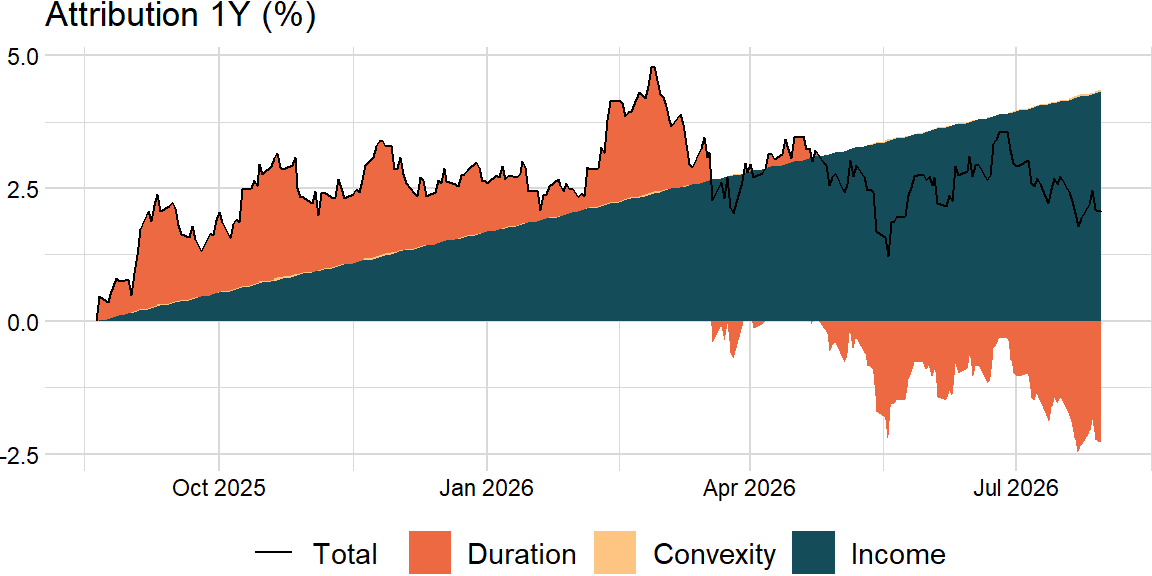
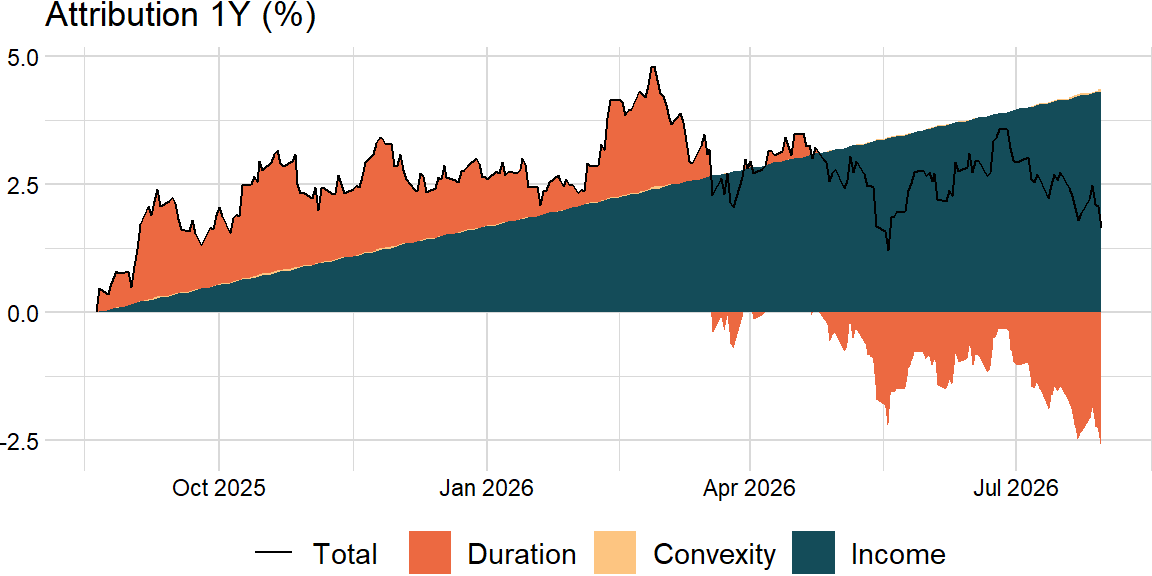
Version: 1.0.0

diff --git a/docs/index.html b/docs/index.html
@@ -197,7 +197,69 @@ window.Quarto = {
 
 <div class="quarto-listing quarto-listing-container-grid" id="listing-listing">
 <div class="list grid quarto-listing-cols-3">
-<div class="g-col-1" data-index="0" data-categories="YW5hbHlzaXMlMkNmaW5hbmNlJTJDcg==" data-listing-date-sort="1785517666000" data-listing-file-modified-sort="1785517666000" data-listing-date-modified-sort="NaN" data-listing-reading-time-sort="9" data-listing-word-count-sort="1697">
+<div class="g-col-1" data-index="0" data-categories="YW5hbHlzaXMlMkNmaW5hbmNlJTJDcHl0aG9u" data-listing-date-sort="1785785860000" data-listing-file-modified-sort="1785785860000" data-listing-date-modified-sort="NaN" data-listing-reading-time-sort="15" data-listing-word-count-sort="2971">
+<a href="./posts/securities-py/index.html" class="quarto-grid-link">
+</a><div class="quarto-grid-item card h-100 card-left"><a href="./posts/securities-py/index.html" class="quarto-grid-link">
+<p class="card-img-top"><img src="posts\securities-py\index_files\figure-html\unnamed-chunk-19-1.png" style="height: 0px;"  class="thumbnail-image card-img"/></p>
+</a><div class="card-body post-contents"><a href="./posts/securities-py/index.html" class="quarto-grid-link">
+<h5 class="no-anchor card-title listing-title">
+Securities
+</h5>
+<div class="listing-categories">
+
+<div class="listing-category" onclick="window.quartoListingCategory('YW5hbHlzaXM='); return false;">analysis</div>
+
+<div class="listing-category" onclick="window.quartoListingCategory('ZmluYW5jZQ=='); return false;">finance</div>
+
+<div class="listing-category" onclick="window.quartoListingCategory('cHl0aG9u'); return false;">python</div>
+
+</div>
+<div class="card-text listing-description delink">
+For a given spot price <span class="math inline">\(S\)</span>, strike price <span class="math inline">\(K\)</span>, risk-free rate <span class="math inline">\(r\)</span>, annual dividend yield <span class="math inline">\(q\)</span>, time-to-maturity <span class="math inline">\(\tau = T - t\)</span>, and volatility <span class="math inline">\(\sigma\)</span>:
+</div>
+</a><div class="card-attribution card-text-small justify"><a href="./posts/securities-py/index.html" class="quarto-grid-link">
+</a><div class="listing-author"><a href="./posts/securities-py/index.html" class="quarto-grid-link">
+</a><a href="mailto:jason.j.foster@gmail.com">Jason Foster</a>
+</div>
+<div class="listing-date">
+Aug 3, 2026
+</div>
+</div>
+</div>
+</div>
+</div>
+<div class="g-col-1" data-index="1" data-categories="YW5hbHlzaXMlMkNmaW5hbmNlJTJDcg==" data-listing-date-sort="1785785850000" data-listing-file-modified-sort="1785785850000" data-listing-date-modified-sort="NaN" data-listing-reading-time-sort="17" data-listing-word-count-sort="3244">
+<a href="./posts/securities-r/index.html" class="quarto-grid-link">
+</a><div class="quarto-grid-item card h-100 card-left"><a href="./posts/securities-r/index.html" class="quarto-grid-link">
+<p class="card-img-top"><img src="posts\securities-r\index_files\figure-html\unnamed-chunk-17-1.png" style="height: 0px;"  class="thumbnail-image card-img"/></p>
+</a><div class="card-body post-contents"><a href="./posts/securities-r/index.html" class="quarto-grid-link">
+<h5 class="no-anchor card-title listing-title">
+Securities
+</h5>
+<div class="listing-categories">
+
+<div class="listing-category" onclick="window.quartoListingCategory('YW5hbHlzaXM='); return false;">analysis</div>
+
+<div class="listing-category" onclick="window.quartoListingCategory('ZmluYW5jZQ=='); return false;">finance</div>
+
+<div class="listing-category" onclick="window.quartoListingCategory('cg=='); return false;">r</div>
+
+</div>
+<div class="card-text listing-description delink">
+For a given spot price <span class="math inline">\(S\)</span>, strike price <span class="math inline">\(K\)</span>, risk-free rate <span class="math inline">\(r\)</span>, annual dividend yield <span class="math inline">\(q\)</span>, time-to-maturity <span class="math inline">\(\tau = T - t\)</span>, and volatility <span class="math inline">\(\sigma\)</span>:
+</div>
+</a><div class="card-attribution card-text-small justify"><a href="./posts/securities-r/index.html" class="quarto-grid-link">
+</a><div class="listing-author"><a href="./posts/securities-r/index.html" class="quarto-grid-link">
+</a><a href="mailto:jason.j.foster@gmail.com">Jason Foster</a>
+</div>
+<div class="listing-date">
+Aug 3, 2026
+</div>
+</div>
+</div>
+</div>
+</div>
+<div class="g-col-1" data-index="2" data-categories="YW5hbHlzaXMlMkNmaW5hbmNlJTJDcg==" data-listing-date-sort="1785517666000" data-listing-file-modified-sort="1785517666000" data-listing-date-modified-sort="NaN" data-listing-reading-time-sort="9" data-listing-word-count-sort="1697">
 <a href="./posts/optim-r/index.html" class="quarto-grid-link">
 </a><div class="quarto-grid-item card h-100 card-left"><a href="./posts/optim-r/index.html" class="quarto-grid-link">
 <p class="card-img-top"><img src="posts\optim-r\index_files\figure-html\unnamed-chunk-7-1.png" style="height: 0px;"  class="thumbnail-image card-img"/></p>
@@ -228,7 +290,7 @@ Jul 31, 2026
 </div>
 </div>
 </div>
-<div class="g-col-1" data-index="1" data-categories="YW5hbHlzaXMlMkNmaW5hbmNlJTJDcHl0aG9u" data-listing-date-sort="1785512320000" data-listing-file-modified-sort="1785512320000" data-listing-date-modified-sort="NaN" data-listing-reading-time-sort="8" data-listing-word-count-sort="1525">
+<div class="g-col-1" data-index="3" data-categories="YW5hbHlzaXMlMkNmaW5hbmNlJTJDcHl0aG9u" data-listing-date-sort="1785512320000" data-listing-file-modified-sort="1785512320000" data-listing-date-modified-sort="NaN" data-listing-reading-time-sort="8" data-listing-word-count-sort="1525">
 <a href="./posts/optim-py/index.html" class="quarto-grid-link">
 </a><div class="quarto-grid-item card h-100 card-left"><a href="./posts/optim-py/index.html" class="quarto-grid-link">
 <p class="card-img-top"><img src="posts\optim-py\index_files\figure-html\unnamed-chunk-8-1.png" style="height: 0px;"  class="thumbnail-image card-img"/></p>
@@ -259,7 +321,7 @@ Jul 31, 2026
 </div>
 </div>
 </div>
-<div class="g-col-1" data-index="2" data-categories="YW5hbHlzaXMlMkNmaW5hbmNlJTJDcg==" data-listing-date-sort="1785452646000" data-listing-file-modified-sort="1785452646043" data-listing-date-modified-sort="NaN" data-listing-reading-time-sort="8" data-listing-word-count-sort="1483">
+<div class="g-col-1" data-index="4" data-categories="YW5hbHlzaXMlMkNmaW5hbmNlJTJDcg==" data-listing-date-sort="1785452646000" data-listing-file-modified-sort="1785452646043" data-listing-date-modified-sort="NaN" data-listing-reading-time-sort="8" data-listing-word-count-sort="1483">
 <a href="./posts/risk-r/index.html" class="quarto-grid-link">
 </a><div class="quarto-grid-item card h-100 card-left"><a href="./posts/risk-r/index.html" class="quarto-grid-link">
 <div class="listing-item-img-placeholder card-img-top" style="height: 0px;">&nbsp;</div>
@@ -285,68 +347,6 @@ Risk
 </div>
 </a><div class="card-attribution card-text-small justify"><a href="./posts/risk-r/index.html" class="quarto-grid-link">
 </a><div class="listing-author"><a href="./posts/risk-r/index.html" class="quarto-grid-link">
-</a><a href="mailto:jason.j.foster@gmail.com">Jason Foster</a>
-</div>
-<div class="listing-date">
-Jul 30, 2026
-</div>
-</div>
-</div>
-</div>
-</div>
-<div class="g-col-1" data-index="3" data-categories="YW5hbHlzaXMlMkNmaW5hbmNlJTJDcHl0aG9u" data-listing-date-sort="1785419844000" data-listing-file-modified-sort="1785419844000" data-listing-date-modified-sort="NaN" data-listing-reading-time-sort="15" data-listing-word-count-sort="2973">
-<a href="./posts/securities-py/index.html" class="quarto-grid-link">
-</a><div class="quarto-grid-item card h-100 card-left"><a href="./posts/securities-py/index.html" class="quarto-grid-link">
-<p class="card-img-top"><img src="posts\securities-py\index_files\figure-html\unnamed-chunk-19-1.png" style="height: 0px;"  class="thumbnail-image card-img"/></p>
-</a><div class="card-body post-contents"><a href="./posts/securities-py/index.html" class="quarto-grid-link">
-<h5 class="no-anchor card-title listing-title">
-Securities
-</h5>
-<div class="listing-categories">
-
-<div class="listing-category" onclick="window.quartoListingCategory('YW5hbHlzaXM='); return false;">analysis</div>
-
-<div class="listing-category" onclick="window.quartoListingCategory('ZmluYW5jZQ=='); return false;">finance</div>
-
-<div class="listing-category" onclick="window.quartoListingCategory('cHl0aG9u'); return false;">python</div>
-
-</div>
-<div class="card-text listing-description delink">
-For a given spot price <span class="math inline">\(S\)</span>, strike price <span class="math inline">\(K\)</span>, risk-free rate <span class="math inline">\(r\)</span>, annual dividend yield <span class="math inline">\(q\)</span>, time-to-maturity <span class="math inline">\(\tau = T - t\)</span>, and volatility <span class="math inline">\(\sigma\)</span>:
-</div>
-</a><div class="card-attribution card-text-small justify"><a href="./posts/securities-py/index.html" class="quarto-grid-link">
-</a><div class="listing-author"><a href="./posts/securities-py/index.html" class="quarto-grid-link">
-</a><a href="mailto:jason.j.foster@gmail.com">Jason Foster</a>
-</div>
-<div class="listing-date">
-Jul 30, 2026
-</div>
-</div>
-</div>
-</div>
-</div>
-<div class="g-col-1" data-index="4" data-categories="YW5hbHlzaXMlMkNmaW5hbmNlJTJDcg==" data-listing-date-sort="1785419834000" data-listing-file-modified-sort="1785419834000" data-listing-date-modified-sort="NaN" data-listing-reading-time-sort="17" data-listing-word-count-sort="3244">
-<a href="./posts/securities-r/index.html" class="quarto-grid-link">
-</a><div class="quarto-grid-item card h-100 card-left"><a href="./posts/securities-r/index.html" class="quarto-grid-link">
-<p class="card-img-top"><img src="posts\securities-r\index_files\figure-html\unnamed-chunk-17-1.png" style="height: 0px;"  class="thumbnail-image card-img"/></p>
-</a><div class="card-body post-contents"><a href="./posts/securities-r/index.html" class="quarto-grid-link">
-<h5 class="no-anchor card-title listing-title">
-Securities
-</h5>
-<div class="listing-categories">
-
-<div class="listing-category" onclick="window.quartoListingCategory('YW5hbHlzaXM='); return false;">analysis</div>
-
-<div class="listing-category" onclick="window.quartoListingCategory('ZmluYW5jZQ=='); return false;">finance</div>
-
-<div class="listing-category" onclick="window.quartoListingCategory('cg=='); return false;">r</div>
-
-</div>
-<div class="card-text listing-description delink">
-For a given spot price <span class="math inline">\(S\)</span>, strike price <span class="math inline">\(K\)</span>, risk-free rate <span class="math inline">\(r\)</span>, annual dividend yield <span class="math inline">\(q\)</span>, time-to-maturity <span class="math inline">\(\tau = T - t\)</span>, and volatility <span class="math inline">\(\sigma\)</span>:
-</div>
-</a><div class="card-attribution card-text-small justify"><a href="./posts/securities-r/index.html" class="quarto-grid-link">
-</a><div class="listing-author"><a href="./posts/securities-r/index.html" class="quarto-grid-link">
 </a><a href="mailto:jason.j.foster@gmail.com">Jason Foster</a>
 </div>
 <div class="listing-date">

diff --git a/docs/posts/securities-r/index.html b/docs/posts/securities-r/index.html
@@ -7,7 +7,7 @@
 <meta name="viewport" content="width=device-width, initial-scale=1.0, user-scalable=yes">
 
 <meta name="author" content="Jason Foster">
-<meta name="dcterms.date" content="2026-07-30">
+<meta name="dcterms.date" content="2026-08-03">
 
 <title>Securities – jasonjfoster.github.io</title>
 <style>
@@ -193,7 +193,7 @@ window.Quarto = {
       <div>
       <div class="quarto-title-meta-heading">Published</div>
       <div class="quarto-title-meta-contents">
-        <p class="date">July 30, 2026</p>
+        <p class="date">August 3, 2026</p>
       </div>
     </div>
     
@@ -281,7 +281,7 @@ window.Quarto = {
 <div class="cell">
 <div class="sourceCode cell-code" id="cb3"><pre class="sourceCode r code-with-copy"><code class="sourceCode r"><span id="cb3-1"><a href="#cb3-1" aria-hidden="true" tabindex="-1"></a>factor <span class="ot">&lt;-</span> <span class="st">"SP500"</span></span>
 <span id="cb3-2"><a href="#cb3-2" aria-hidden="true" tabindex="-1"></a>types <span class="ot">&lt;-</span> <span class="fu">c</span>(<span class="st">"call"</span>, <span class="st">"put"</span>)</span>
-<span id="cb3-3"><a href="#cb3-3" aria-hidden="true" tabindex="-1"></a>S <span class="ot">&lt;-</span> <span class="fu">as.numeric</span>(zoo<span class="sc">::</span><span class="fu">coredata</span>(zoo<span class="sc">::</span><span class="fu">na.locf</span>(levels_xts[<span class="fu">nrow</span>(levels_xts), factor]))) <span class="co"># Recycling array of length 1 in vector-array arithmetic is deprecated. Use c() or as.vector() instead.</span></span>
+<span id="cb3-3"><a href="#cb3-3" aria-hidden="true" tabindex="-1"></a>S <span class="ot">&lt;-</span> <span class="fu">as.numeric</span>(zoo<span class="sc">::</span><span class="fu">coredata</span>(zoo<span class="sc">::</span><span class="fu">na.locf</span>(levels_xts)[<span class="fu">nrow</span>(levels_xts), factor])) <span class="co"># Recycling array of length 1 in vector-array arithmetic is deprecated. Use c() or as.vector() instead.</span></span>
 <span id="cb3-4"><a href="#cb3-4" aria-hidden="true" tabindex="-1"></a>K <span class="ot">&lt;-</span> S</span>
 <span id="cb3-5"><a href="#cb3-5" aria-hidden="true" tabindex="-1"></a>r <span class="ot">&lt;-</span> <span class="dv">0</span> <span class="co"># use "USD3MTD156N"</span></span>
 <span id="cb3-6"><a href="#cb3-6" aria-hidden="true" tabindex="-1"></a>q <span class="ot">&lt;-</span> <span class="dv">0</span> <span class="co"># see https://stackoverflow.com/a/11286679 </span></span>
@@ -601,7 +601,7 @@ P(y+\Delta y)-P(y)&amp;\approx{\frac{P'(y)}{1!}}\Delta y+{\frac{P''(y)}{2!}}(\De
 <div class="cell">
 <div class="sourceCode cell-code" id="cb22"><pre class="sourceCode r code-with-copy"><code class="sourceCode r"><span id="cb22-1"><a href="#cb22-1" aria-hidden="true" tabindex="-1"></a>bonds_dt <span class="ot">&lt;-</span> data.table<span class="sc">::</span><span class="fu">data.table</span>(<span class="at">index =</span> zoo<span class="sc">::</span><span class="fu">index</span>(<span class="fu">tail</span>(levels_xts, width)),</span>
 <span id="cb22-2"><a href="#cb22-2" aria-hidden="true" tabindex="-1"></a>                                   <span class="at">duration =</span> duration, <span class="at">convexity =</span> convexity,</span>
-<span id="cb22-3"><a href="#cb22-3" aria-hidden="true" tabindex="-1"></a>                                   <span class="at">dy =</span> zoo<span class="sc">::</span><span class="fu">na.locf</span>(<span class="fu">tail</span>(levels_xts[ , factor], width)),</span>
+<span id="cb22-3"><a href="#cb22-3" aria-hidden="true" tabindex="-1"></a>                                   <span class="at">dy =</span> <span class="fu">tail</span>(zoo<span class="sc">::</span><span class="fu">na.locf</span>(levels_xts[ , factor]), width),</span>
 <span id="cb22-4"><a href="#cb22-4" aria-hidden="true" tabindex="-1"></a>                                   <span class="at">t =</span> (<span class="fu">seq_len</span>(width) <span class="sc">-</span> <span class="dv">1</span>) <span class="sc">/</span> scale[[<span class="st">"periods"</span>]])</span>
 <span id="cb22-5"><a href="#cb22-5" aria-hidden="true" tabindex="-1"></a>data.table<span class="sc">::</span><span class="fu">setnames</span>(bonds_dt, <span class="fu">c</span>(<span class="st">"index"</span>, <span class="st">"duration"</span>, <span class="st">"convexity"</span>, <span class="st">"dy"</span>, <span class="st">"t"</span>))</span>
 <span id="cb22-6"><a href="#cb22-6" aria-hidden="true" tabindex="-1"></a>bonds_dt[ , dy <span class="sc">:</span><span class="er">=</span> (dy <span class="sc">-</span> y) <span class="sc">/</span> <span class="dv">100</span>, by <span class="ot">=</span> index]</span></code><button title="Copy to Clipboard" class="code-copy-button"><i class="bi"></i></button></pre></div>
@@ -735,7 +735,7 @@ V(S+\Delta S,\sigma+\Delta\sigma,t+\Delta t)-V(S,\sigma,t)&amp;\approx{\frac{\pa
 </div>
 <div class="cell">
 <div class="sourceCode cell-code" id="cb30"><pre class="sourceCode r code-with-copy"><code class="sourceCode r"><span id="cb30-1"><a href="#cb30-1" aria-hidden="true" tabindex="-1"></a>options_dt <span class="ot">&lt;-</span> data.table<span class="sc">::</span><span class="fu">data.table</span>(<span class="at">index =</span> zoo<span class="sc">::</span><span class="fu">index</span>(<span class="fu">tail</span>(levels_xts, width)),</span>
-<span id="cb30-2"><a href="#cb30-2" aria-hidden="true" tabindex="-1"></a>                                     <span class="at">spot =</span> zoo<span class="sc">::</span><span class="fu">na.locf</span>(<span class="fu">tail</span>(levels_xts[ , factor], width)),</span>
+<span id="cb30-2"><a href="#cb30-2" aria-hidden="true" tabindex="-1"></a>                                     <span class="at">spot =</span> <span class="fu">tail</span>(zoo<span class="sc">::</span><span class="fu">na.locf</span>(levels_xts[ , factor]), width),</span>
 <span id="cb30-3"><a href="#cb30-3" aria-hidden="true" tabindex="-1"></a>                                     <span class="at">sigma =</span> <span class="fu">tail</span>(sd_xts[ , factor], width))</span>
 <span id="cb30-4"><a href="#cb30-4" aria-hidden="true" tabindex="-1"></a>data.table<span class="sc">::</span><span class="fu">setnames</span>(options_dt, <span class="fu">c</span>(<span class="st">"index"</span>, <span class="st">"spot"</span>, <span class="st">"sigma"</span>))</span>
 <span id="cb30-5"><a href="#cb30-5" aria-hidden="true" tabindex="-1"></a>options_dt[ , dS <span class="sc">:</span><span class="er">=</span> spot <span class="sc">-</span> S, by <span class="ot">=</span> index]</span>
@@ -882,14 +882,14 @@ S_{k}(t_{i+1})&amp;=S_{k}(t_{i})\exp\left(\sqrt{t_{i+1}-t_{i}}\sum_{j=1}^{d}{A_{
 <div class="cell">
 <div class="sourceCode cell-code" id="cb38"><pre class="sourceCode r code-with-copy"><code class="sourceCode r"><span id="cb38-1"><a href="#cb38-1" aria-hidden="true" tabindex="-1"></a><span class="fu">data.frame</span>(</span>
 <span id="cb38-2"><a href="#cb38-2" aria-hidden="true" tabindex="-1"></a>  <span class="st">"empirical"</span> <span class="ot">=</span> <span class="fu">colMeans</span>(<span class="fu">na.omit</span>(returns_xts)) <span class="sc">*</span> scale[[<span class="st">"periods"</span>]],</span>
-<span id="cb38-3"><a href="#cb38-3" aria-hidden="true" tabindex="-1"></a>  <span class="st">"theoretical"</span> <span class="ot">=</span> <span class="fu">colMeans</span>(<span class="fu">do.call</span>(rbind, mu_ls)</span>
-<span id="cb38-4"><a href="#cb38-4" aria-hidden="true" tabindex="-1"></a>))</span></code><button title="Copy to Clipboard" class="code-copy-button"><i class="bi"></i></button></pre></div>
+<span id="cb38-3"><a href="#cb38-3" aria-hidden="true" tabindex="-1"></a>  <span class="st">"theoretical"</span> <span class="ot">=</span> <span class="fu">colMeans</span>(<span class="fu">do.call</span>(rbind, mu_ls))</span>
+<span id="cb38-4"><a href="#cb38-4" aria-hidden="true" tabindex="-1"></a>)</span></code><button title="Copy to Clipboard" class="code-copy-button"><i class="bi"></i></button></pre></div>
 <div class="cell-output cell-output-stdout">
-<pre><code>                empirical  theoretical
-SP500         0.175549266  0.173975080
-DTWEXAFEGS   -0.019268680 -0.019892731
-DGS10         0.001303448  0.001323972
-BAMLH0A0HYM2  0.003837931  0.003925600</code></pre>
+<pre><code>              empirical  theoretical
+SP500         0.1757898  0.175114111
+DTWEXAFEGS   -0.0232465 -0.023222736
+DGS10         0.0013320  0.001414344
+BAMLH0A0HYM2  0.0036360  0.003598867</code></pre>
 </div>
 </div>
 <div class="cell">
@@ -899,10 +899,10 @@ BAMLH0A0HYM2  0.003837931  0.003925600</code></pre>
 <span id="cb40-4"><a href="#cb40-4" aria-hidden="true" tabindex="-1"></a>)</span></code><button title="Copy to Clipboard" class="code-copy-button"><i class="bi"></i></button></pre></div>
 <div class="cell-output cell-output-stdout">
 <pre><code>               empirical theoretical
-SP500        0.151668080 0.151352696
-DTWEXAFEGS   0.056599648 0.056548421
-DGS10        0.008637954 0.008629593
-BAMLH0A0HYM2 0.011538425 0.011523203</code></pre>
+SP500        0.151835610 0.151703861
+DTWEXAFEGS   0.056957724 0.056864232
+DGS10        0.008627612 0.008623688
+BAMLH0A0HYM2 0.011510465 0.011492778</code></pre>
 </div>
 </div>
 </section>
@@ -924,7 +924,7 @@ BAMLH0A0HYM2 0.011538425 0.011523203</code></pre>
 x_{n+1}=x_{n}-{\frac{f(x_{n})}{f'(x_{n})}}
 \end{aligned}
 \]</span></p>
-<p>To solve <span class="math inline">\(V(\sigma_{n})-V=0\)</span> for <span class="math inline">\(\sigma_{n}\)</span>, use Newton’s method and repeat until <span class="math inline">\(\left|\sigma_{n+1}-\sigma_{n}\right|&lt;\varepsilon\)</span>:</p>
+<p>To solve <span class="math inline">\(V(\sigma_{n})-V=0\)</span> for <span class="math inline">\(\sigma_{n}\)</span>, use Newton’s method and repeat until <span class="math inline">\(\left|V(\sigma_{n})-V\right|&lt;\varepsilon\)</span>:</p>
 <p><span class="math display">\[
 \begin{aligned}
 \sigma_{n+1}=\sigma_{n}-{\frac{V(\sigma_{n})-V}{V'(\sigma_{n})}}

diff --git a/docs/posts/securities-py/index.html b/docs/posts/securities-py/index.html
@@ -7,7 +7,7 @@
 <meta name="viewport" content="width=device-width, initial-scale=1.0, user-scalable=yes">
 
 <meta name="author" content="Jason Foster">
-<meta name="dcterms.date" content="2026-07-30">
+<meta name="dcterms.date" content="2026-08-03">
 
 <title>Securities – jasonjfoster.github.io</title>
 <style>
@@ -193,7 +193,7 @@ window.Quarto = {
       <div>
       <div class="quarto-title-meta-heading">Published</div>
       <div class="quarto-title-meta-contents">
-        <p class="date">July 30, 2026</p>
+        <p class="date">August 3, 2026</p>
       </div>
     </div>
     
@@ -864,10 +864,10 @@ S_{k}(t_{i+1})&amp;=S_{k}(t_{i})\exp\left(\sqrt{t_{i+1}-t_{i}}\sum_{j=1}^{d}{A_{
 <span id="cb40-4"><a href="#cb40-4" aria-hidden="true" tabindex="-1"></a>})</span></code><button title="Copy to Clipboard" class="code-copy-button"><i class="bi"></i></button></pre></div>
 <div class="cell-output cell-output-stdout">
 <pre><code>   empirical  theoretical
-0   0.175549     0.175178
-1  -0.019269    -0.019619
-2   0.001303     0.001346
-3   0.003838     0.003772</code></pre>
+0   0.175790     0.175406
+1  -0.023246    -0.023447
+2   0.001332     0.001290
+3   0.003636     0.003549</code></pre>
 </div>
 </div>
 <div class="cell">
@@ -877,10 +877,10 @@ S_{k}(t_{i+1})&amp;=S_{k}(t_{i})\exp\left(\sqrt{t_{i+1}-t_{i}}\sum_{j=1}^{d}{A_{
 <span id="cb42-4"><a href="#cb42-4" aria-hidden="true" tabindex="-1"></a>})</span></code><button title="Copy to Clipboard" class="code-copy-button"><i class="bi"></i></button></pre></div>
 <div class="cell-output cell-output-stdout">
 <pre><code>   empirical  theoretical
-0   0.151668     0.151507
-1   0.056600     0.056544
-2   0.008638     0.008634
-3   0.011538     0.011524</code></pre>
+0   0.151836     0.151581
+1   0.056958     0.056875
+2   0.008628     0.008619
+3   0.011510     0.011495</code></pre>
 </div>
 </div>
 </section>
@@ -902,7 +902,7 @@ S_{k}(t_{i+1})&amp;=S_{k}(t_{i})\exp\left(\sqrt{t_{i+1}-t_{i}}\sum_{j=1}^{d}{A_{
 x_{n+1}=x_{n}-{\frac{f(x_{n})}{f'(x_{n})}}
 \end{aligned}
 \]</span></p>
-<p>To solve <span class="math inline">\(V(\sigma_{n})-V=0\)</span> for <span class="math inline">\(\sigma_{n}\)</span>, use Newton’s method and repeat until <span class="math inline">\(\left|\sigma_{n+1}-\sigma_{n}\right|&lt;\varepsilon\)</span>:</p>
+<p>To solve <span class="math inline">\(V(\sigma_{n})-V=0\)</span> for <span class="math inline">\(\sigma_{n}\)</span>, use Newton’s method and repeat until <span class="math inline">\(\left|V(\sigma_{n})-V\right|&lt;\varepsilon\)</span>:</p>
 <p><span class="math display">\[
 \begin{aligned}
 \sigma_{n+1}=\sigma_{n}-{\frac{V(\sigma_{n})-V}{V'(\sigma_{n})}}
@@ -1068,9 +1068,9 @@ x_{n+1}=x_{n}-{\frac{f(x_{n})}{f'(x_{n})}}
 <span id="cb59-6"><a href="#cb59-6" aria-hidden="true" tabindex="-1"></a>      </span>
 <span id="cb59-7"><a href="#cb59-7" aria-hidden="true" tabindex="-1"></a>    target0 <span class="op">+=</span> cash_flows[i] <span class="op">/</span> (<span class="dv">1</span> <span class="op">+</span> param) <span class="op">**</span> (i <span class="op">+</span> <span class="dv">1</span>)</span>
 <span id="cb59-8"><a href="#cb59-8" aria-hidden="true" tabindex="-1"></a>  </span>
-<span id="cb59-9"><a href="#cb59-9" aria-hidden="true" tabindex="-1"></a>  target0 <span class="op">=</span> <span class="bu">abs</span>(target0 <span class="op">-</span> target)</span>
-<span id="cb59-10"><a href="#cb59-10" aria-hidden="true" tabindex="-1"></a>  </span>
-<span id="cb59-11"><a href="#cb59-11" aria-hidden="true" tabindex="-1"></a>  <span class="cf">return</span> target0</span>
+<span id="cb59-9"><a href="#cb59-9" aria-hidden="true" tabindex="-1"></a>  result <span class="op">=</span> <span class="bu">abs</span>(target0 <span class="op">-</span> target)</span>
+<span id="cb59-10"><a href="#cb59-10" aria-hidden="true" tabindex="-1"></a></span>
+<span id="cb59-11"><a href="#cb59-11" aria-hidden="true" tabindex="-1"></a>  <span class="cf">return</span> result</span>
 <span id="cb59-12"><a href="#cb59-12" aria-hidden="true" tabindex="-1"></a>  </span>
 <span id="cb59-13"><a href="#cb59-13" aria-hidden="true" tabindex="-1"></a><span class="kw">def</span> yld_optim(params, cash_flows, target):</span>
 <span id="cb59-14"><a href="#cb59-14" aria-hidden="true" tabindex="-1"></a></span>
